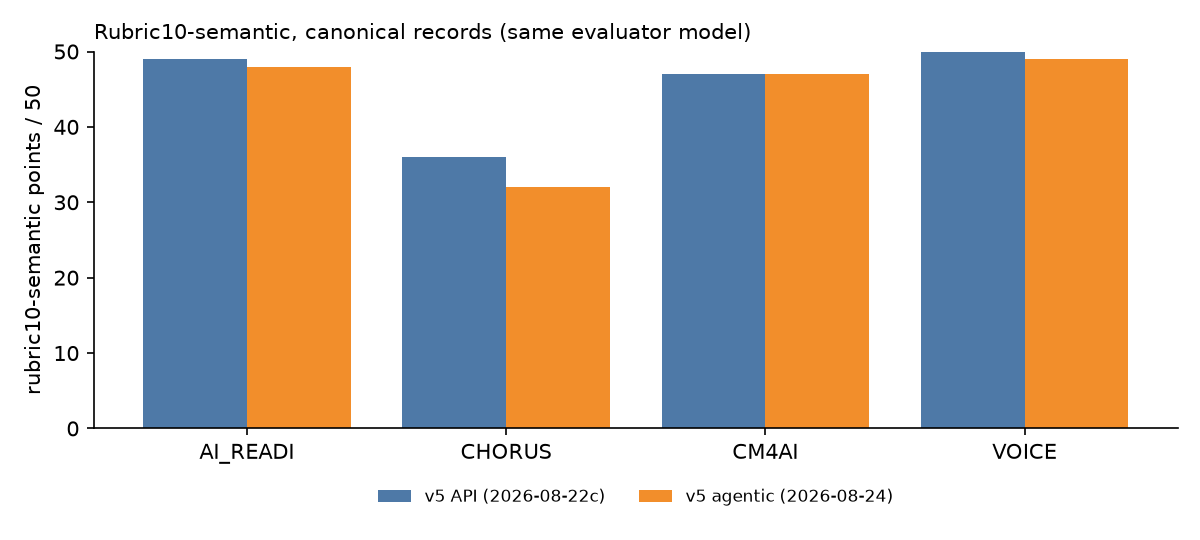
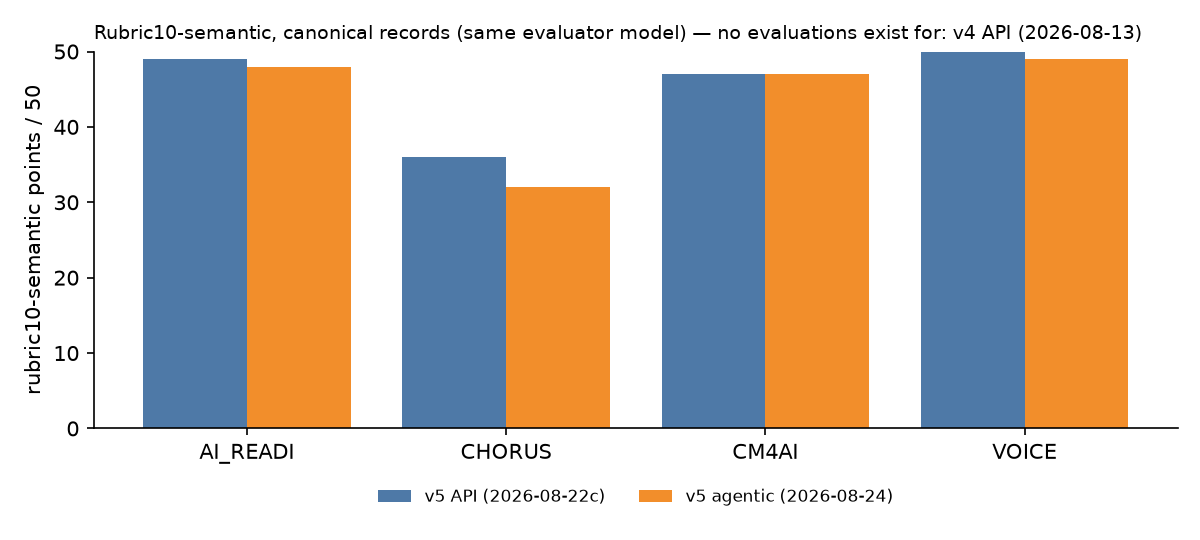
Absorb the #692 review: the bases as they are, not as I assumed them
F1/F2: the script and md claimed the stored form blocks were written under
three counter versions and that bundles had drifted since v4. Neither is
true for these arms — all 36 records were re-backfilled under v2.1 on
2026-08-22 and agree with the live recompute on every field, and every
record's bundle_md5 still matches disk. The bases now say what the live
recompute is for (independence from backfill timing) and what grounding is
measured against (the declared bundle, recorded_by saying who wrote it).

F3: os.chdir(ROOT) — declared_naming() reads the manifest cwd-relative
(#673), so from any other directory every GC count silently became 0.
Verified from /tmp.

F4: the GC caveat says the naming declaration postdates the v4 arm.

F7: the rubric figure names the arms it has no evaluations for; a second
evaluation matching one arm/project now warns instead of being silently
dropped.

F8: unused import gone, form_facts imported once at module top, the v4
column header says max-for-reported-only metrics.

F5: two evaluators put applicability_conditions at top level; moved under
semantic_analysis to match the template (mechanical, content unchanged;
naming residual on #667). F9: timestamp basis says end-of-analysis. F6 (the
rubric_hash contract) is on #679. No-test finding filed as #693.

Changed region(s): [[0.0617, 0.0296, 0.9558, 0.0889]]

diff --git a/scripts/arm_comparison.py b/scripts/arm_comparison.py
@@ -11,16 +11,21 @@ arm.
 Bases, stated once and printed into the output:
 
 - **pair errors, report findings, grounding** come from each record's own
-  blocks. Pair consistency is a deterministic artifact check and grounding
-  was measured against the bundle *that run* saw (bundles have drifted since
-  the v4 arm, so recomputing grounding today would measure a different input).
+  blocks. Pair consistency is a deterministic artifact check. Grounding is
+  measured against the record's declared bundle — for every arm shown, the
+  record's `inputs.bundle_md5` still matches the bundle on disk, and the
+  block was written either by the run or by `backfill-checks` against that
+  same bundle (the record's `recorded_by` says which).
 - **form metrics** (British spellings, undeclared prefixes, organisational
   fragments, GC label variants) are recomputed live from the artifacts with
-  the current instrument (`grounding.form_facts`), because the stored `form`
-  blocks were written under whichever instrument version existed at the
-  time — the v4 records carry British counts from a counter that has since
-  been revised twice (#653, #671). One instrument for every arm, or no
-  comparison.
+  the current instrument (`grounding.form_facts`), so the basis does not
+  depend on when each record was last backfilled. As of this writing the
+  stored `form` blocks agree with the live recompute on every field for all
+  36 records (they were all re-backfilled under instrument v2.1 on
+  2026-08-22); the recompute is what keeps that true after the next
+  instrument change. **GC label variants are anachronistic for the v4 and
+  22c arms**: the manifest `naming:` declaration they are counted against
+  was decided 2026-08-22, after the v4 arm ran and the day the 22c arm did.
 - **rubric scores** come from `data/evaluation_llm/rubric10_semantic/
   label_aware/`, matched by label, and only exist for canonical (or
   would-be canonical) records.
@@ -35,8 +40,8 @@ Usage:
 from __future__ import annotations
 
 import argparse
-import glob
 import json
+import os
 import sys
 from pathlib import Path
 from typing import Any
@@ -44,6 +49,11 @@ from typing import Any
 import yaml
 
 ROOT = Path(__file__).resolve().parent.parent
+# form_facts → declared_naming() reads the manifest cwd-relative (#673); run
+# from anywhere else and every GC count silently becomes 0.
+os.chdir(ROOT)
+sys.path.insert(0, str(ROOT / "src"))
+from data_sheets_schema.grounding import form_facts  # noqa: E402
 CONCAT = ROOT / "data" / "d4d_concatenated"
 EVALS = ROOT / "data" / "evaluation_llm" / "rubric10_semantic" / "label_aware"
 OUT_MD = ROOT / "notes" / "arm_comparison.md"
@@ -79,14 +89,18 @@ METRICS: dict[str, tuple[str, str, bool, str]] = {
              "that reduce it differ by runtime (#689) and it is coupled with British "
              "spellings (#675)"),
     "report": ("report findings", "record", True,
-               "the checker parses two claim forms; where claims_checked is 0 the value "
-               "is unmeasured, not held (#684) — shown as 0ᵘ"),
+               "claims_checked counts backticked removal claims only; false-schema-claim "
+               "findings come from a separate scan that counts nothing. A 0 with "
+               "claims_checked 0 is therefore unmeasured on the removal form, not held "
+               "(#684) — shown as 0ᵘ; any finding > 0 is measured"),
     "minted": ("minted fragments (reported)", "record", False,
                "reported-only; every fragment hangs off an attested base wherever "
                "ungrounded is 0. Appetite varies 3→130 within one project (#685)"),
     "gc": ("GC label variants (reported)", "live", True,
-           "reported-only; for VOICE the count is the dataset's own PhysioNet title, "
-           "lawful under the proper-noun carve-out (#674)"),
+           "reported-only; counted against the manifest naming declaration decided "
+           "2026-08-22, so anachronistic for the v4 arm and same-day for 22c. For VOICE "
+           "the count is the dataset's own PhysioNet title, lawful under the "
+           "proper-noun carve-out (#674)"),
 }
 
 
@@ -108,8 +122,6 @@ def run_metrics(prefix: str, rep: int, project: str) -> dict[str, Any] | None:
     g = (rec.get("grounding") or {}).get("distinct") or {}
 
     # Live form recomputation under the current instrument.
-    sys.path.insert(0, str(ROOT / "src"))
-    from data_sheets_schema.grounding import form_facts  # noqa: E402
     form = form_facts(full, core)
 
     def form_get(*keys: str) -> int | None:
@@ -172,6 +184,9 @@ def fmt(m: dict[str, Any], metric: str) -> str:
 
 
 def worst(reps: list[dict[str, Any]], metric: str) -> str:
+    """Per-project collapse for the baseline column: the worst value where
+    the metric has a direction, the max (labelled as such in the header) for
+    reported-only metrics that do not."""
     vals = [r[metric] for r in reps if r.get(metric) is not None]
     if not vals:
         return "–"
@@ -186,19 +201,22 @@ def write_markdown(data, scores) -> None:
              f"Generated by `scripts/arm_comparison.py` from the provenance records under "
              f"`data/d4d_concatenated/`; do not edit by hand — re-run the script.", "",
              "## Bases", "",
-             "- pair errors, report findings, grounding: each record's own blocks "
-             "(pair is a deterministic artifact check; grounding was measured against "
-             "the bundle that run saw).",
+             "- pair errors, report findings, grounding: each record's own blocks. Pair "
+             "is a deterministic artifact check; grounding is against the record's "
+             "declared bundle, whose md5 still matches disk for every arm shown "
+             "(`recorded_by` says whether the run or backfill-checks wrote it).",
              "- British spellings, undeclared prefixes, organisational fragments, GC "
              "label variants: **recomputed live** from the artifacts under the current "
-             "instrument (`grounding.form_facts`), so every arm is measured the same way. "
-             "Stored `form` blocks are not used.",
+             "instrument (`grounding.form_facts`), so the basis does not depend on when "
+             "a record was last backfilled. Stored `form` blocks are not read (today "
+             "they agree with the recompute on all 36 records). GC variants are counted "
+             "against a naming declaration decided 2026-08-22 — anachronistic for v4.",
              "- rubric scores: `data/evaluation_llm/rubric10_semantic/label_aware/`, same "
              "evaluator for every arm shown.",
              "- spend: absent by design — `api_usage` and `run_observed` are different "
              "quantities (#400).", "",
              "Arms: " + "; ".join(f"**{d}** — `{pfx}_rep{{1,2,3}}`, {rt}"
-                                   + (" (shown as per-project worst)" if role == "worst" else "")
+                                   + (" (shown as per-project worst; max for reported-only metrics)" if role == "worst" else "")
                                    for _k, d, pfx, rt, role in ARMS), ""]
 
     lines += ["## Deterministic metrics — three replicates per cell", "",
@@ -284,6 +302,12 @@ def write_figures(data, scores) -> None:
     # Rubric scores: raw points per project per arm (canonicals only).
     fig, ax = plt.subplots(figsize=(8, 3.6))
     arm_keys = [k for k, *_ in ARMS if any(scores[k][p] for p in PROJECTS)]
+    absent = [d for k, d, *_ in ARMS if k not in arm_keys]
+    for k in arm_keys:
+        for p in PROJECTS:
+            if len(scores[k][p]) > 1:
+                print(f"warning: {len(scores[k][p])} evaluations match {k}/{p}; "
+                      f"figure shows the first by filename", file=sys.stderr)
     width = 0.8 / max(1, len(arm_keys))
     for i, key in enumerate(arm_keys):
         vals = [(scores[key][p][0]["total"] if scores[key][p] else 0) for p in PROJECTS]
@@ -293,7 +317,9 @@ def write_figures(data, scores) -> None:
     ax.set_xticklabels(PROJECTS); ax.set_ylim(0, 50); ax.set_ylabel("rubric10-semantic points / 50")
     ax.spines[["top", "right"]].set_visible(False)
     ax.legend(frameon=False, fontsize=8, loc="upper center", bbox_to_anchor=(0.5, -0.12), ncol=len(arm_keys))
-    ax.set_title("Rubric10-semantic, canonical records (same evaluator model)", fontsize=10, loc="left")
+    ax.set_title("Rubric10-semantic, canonical records (same evaluator model)"
+                 + (f" — no evaluations exist for: {', '.join(absent)}" if absent else ""),
+                 fontsize=9, loc="left")
     fig.tight_layout()
     out = OUT_FIG / "arm_comparison_rubric.png"
     fig.savefig(out, dpi=150); plt.close(fig)

diff --git a/notes/arm_comparison.md b/notes/arm_comparison.md
@@ -4,12 +4,12 @@ Generated by `scripts/arm_comparison.py` from the provenance records under `data
 
 ## Bases
 
-- pair errors, report findings, grounding: each record's own blocks (pair is a deterministic artifact check; grounding was measured against the bundle that run saw).
-- British spellings, undeclared prefixes, organisational fragments, GC label variants: **recomputed live** from the artifacts under the current instrument (`grounding.form_facts`), so every arm is measured the same way. Stored `form` blocks are not used.
+- pair errors, report findings, grounding: each record's own blocks. Pair is a deterministic artifact check; grounding is against the record's declared bundle, whose md5 still matches disk for every arm shown (`recorded_by` says whether the run or backfill-checks wrote it).
+- British spellings, undeclared prefixes, organisational fragments, GC label variants: **recomputed live** from the artifacts under the current instrument (`grounding.form_facts`), so the basis does not depend on when a record was last backfilled. Stored `form` blocks are not read (today they agree with the recompute on all 36 records). GC variants are counted against a naming declaration decided 2026-08-22 — anachronistic for v4.
 - rubric scores: `data/evaluation_llm/rubric10_semantic/label_aware/`, same evaluator for every arm shown.
 - spend: absent by design — `api_usage` and `run_observed` are different quantities (#400).
 
-Arms: **v4 API (2026-08-13)** — `2026-08-13_claude-opus-5-api-generic-v4_rep{1,2,3}`, Claude API via CBORG (shown as per-project worst); **v5 API (2026-08-22c)** — `2026-08-22c_claude-opus-5-api-generic-v5_rep{1,2,3}`, Claude API via CBORG; **v5 agentic (2026-08-24)** — `2026-08-24_claude-opus-5-claudecode-generic-v5_rep{1,2,3}`, Claude Code
+Arms: **v4 API (2026-08-13)** — `2026-08-13_claude-opus-5-api-generic-v4_rep{1,2,3}`, Claude API via CBORG (shown as per-project worst; max for reported-only metrics); **v5 API (2026-08-22c)** — `2026-08-22c_claude-opus-5-api-generic-v5_rep{1,2,3}`, Claude API via CBORG; **v5 agentic (2026-08-24)** — `2026-08-24_claude-opus-5-claudecode-generic-v5_rep{1,2,3}`, Claude Code
 
 ## Deterministic metrics — three replicates per cell
 
@@ -57,9 +57,9 @@ Arms: **v4 API (2026-08-13)** — `2026-08-13_claude-opus-5-api-generic-v4_rep{1
 - **undeclared prefixes** — live recompute, current instrument. classification v2.1 (#671): ark: and registered URN NIDs excluded.
 - **British spellings** — live recompute, current instrument. instrument v2.1 (#653). Coupled with pair errors on the API arm: a full/core spelling split counts once per shared slot in both (#675).
 - **pair errors** — record block. deterministic artifact check, comparable across arms; the procedures that reduce it differ by runtime (#689) and it is coupled with British spellings (#675).
-- **report findings** — record block. the checker parses two claim forms; where claims_checked is 0 the value is unmeasured, not held (#684) — shown as 0ᵘ.
+- **report findings** — record block. claims_checked counts backticked removal claims only; false-schema-claim findings come from a separate scan that counts nothing. A 0 with claims_checked 0 is therefore unmeasured on the removal form, not held (#684) — shown as 0ᵘ; any finding > 0 is measured.
 - **minted fragments (reported)** — record block. reported-only; every fragment hangs off an attested base wherever ungrounded is 0. Appetite varies 3→130 within one project (#685).
-- **GC label variants (reported)** — live recompute, current instrument. reported-only; for VOICE the count is the dataset's own PhysioNet title, lawful under the proper-noun carve-out (#674).
+- **GC label variants (reported)** — live recompute, current instrument. reported-only; counted against the manifest naming declaration decided 2026-08-22, so anachronistic for the v4 arm and same-day for 22c. For VOICE the count is the dataset's own PhysioNet title, lawful under the proper-noun carve-out (#674).
 
 ## Rubric10-semantic scores (canonical / would-be canonical records only)
 
